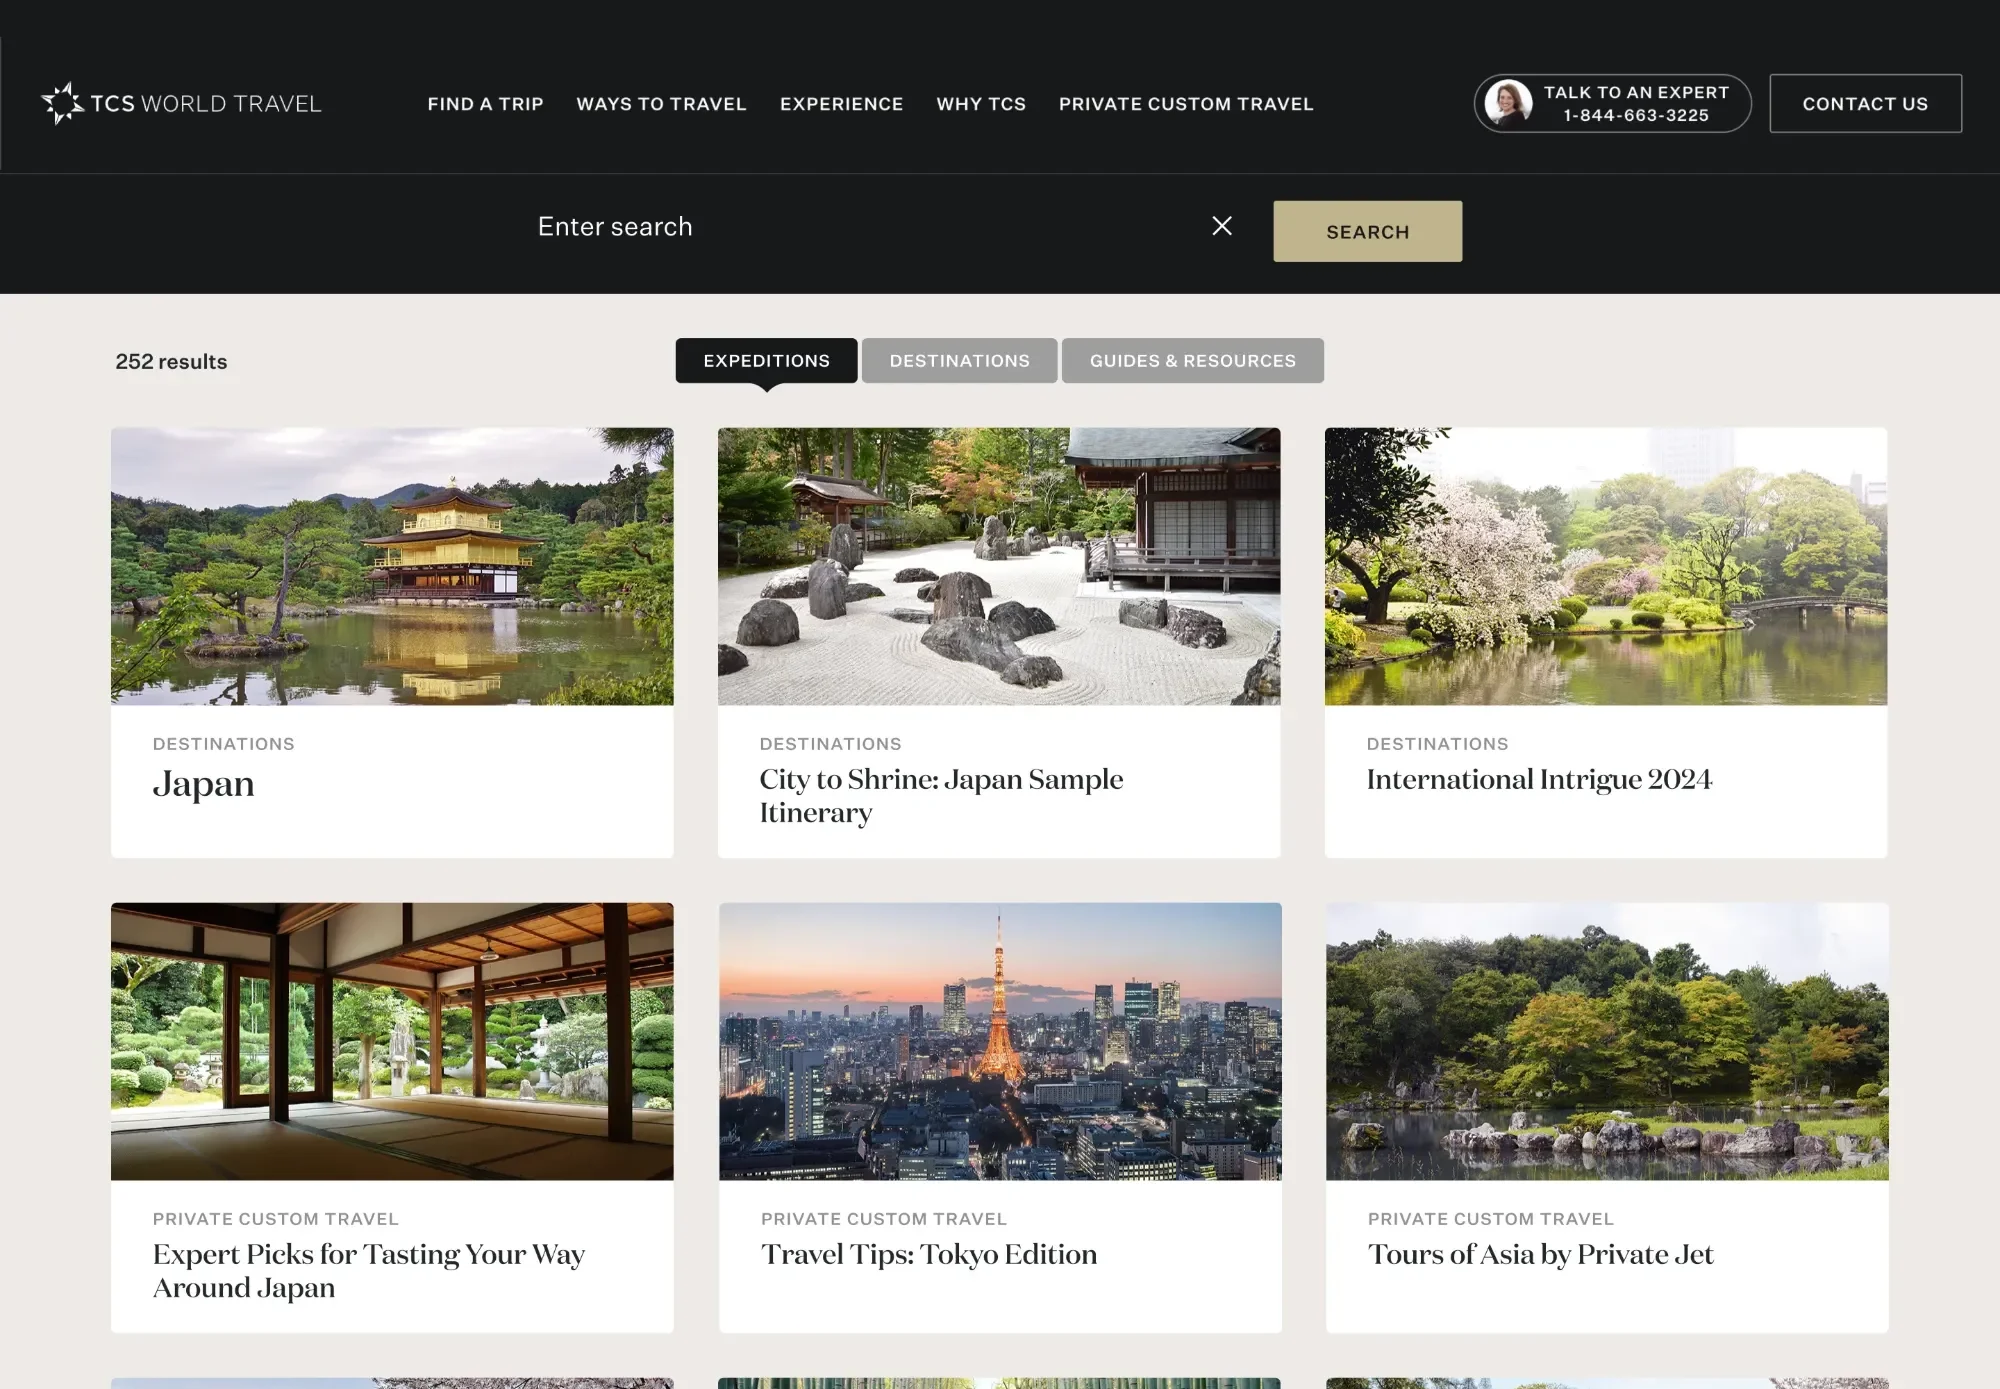
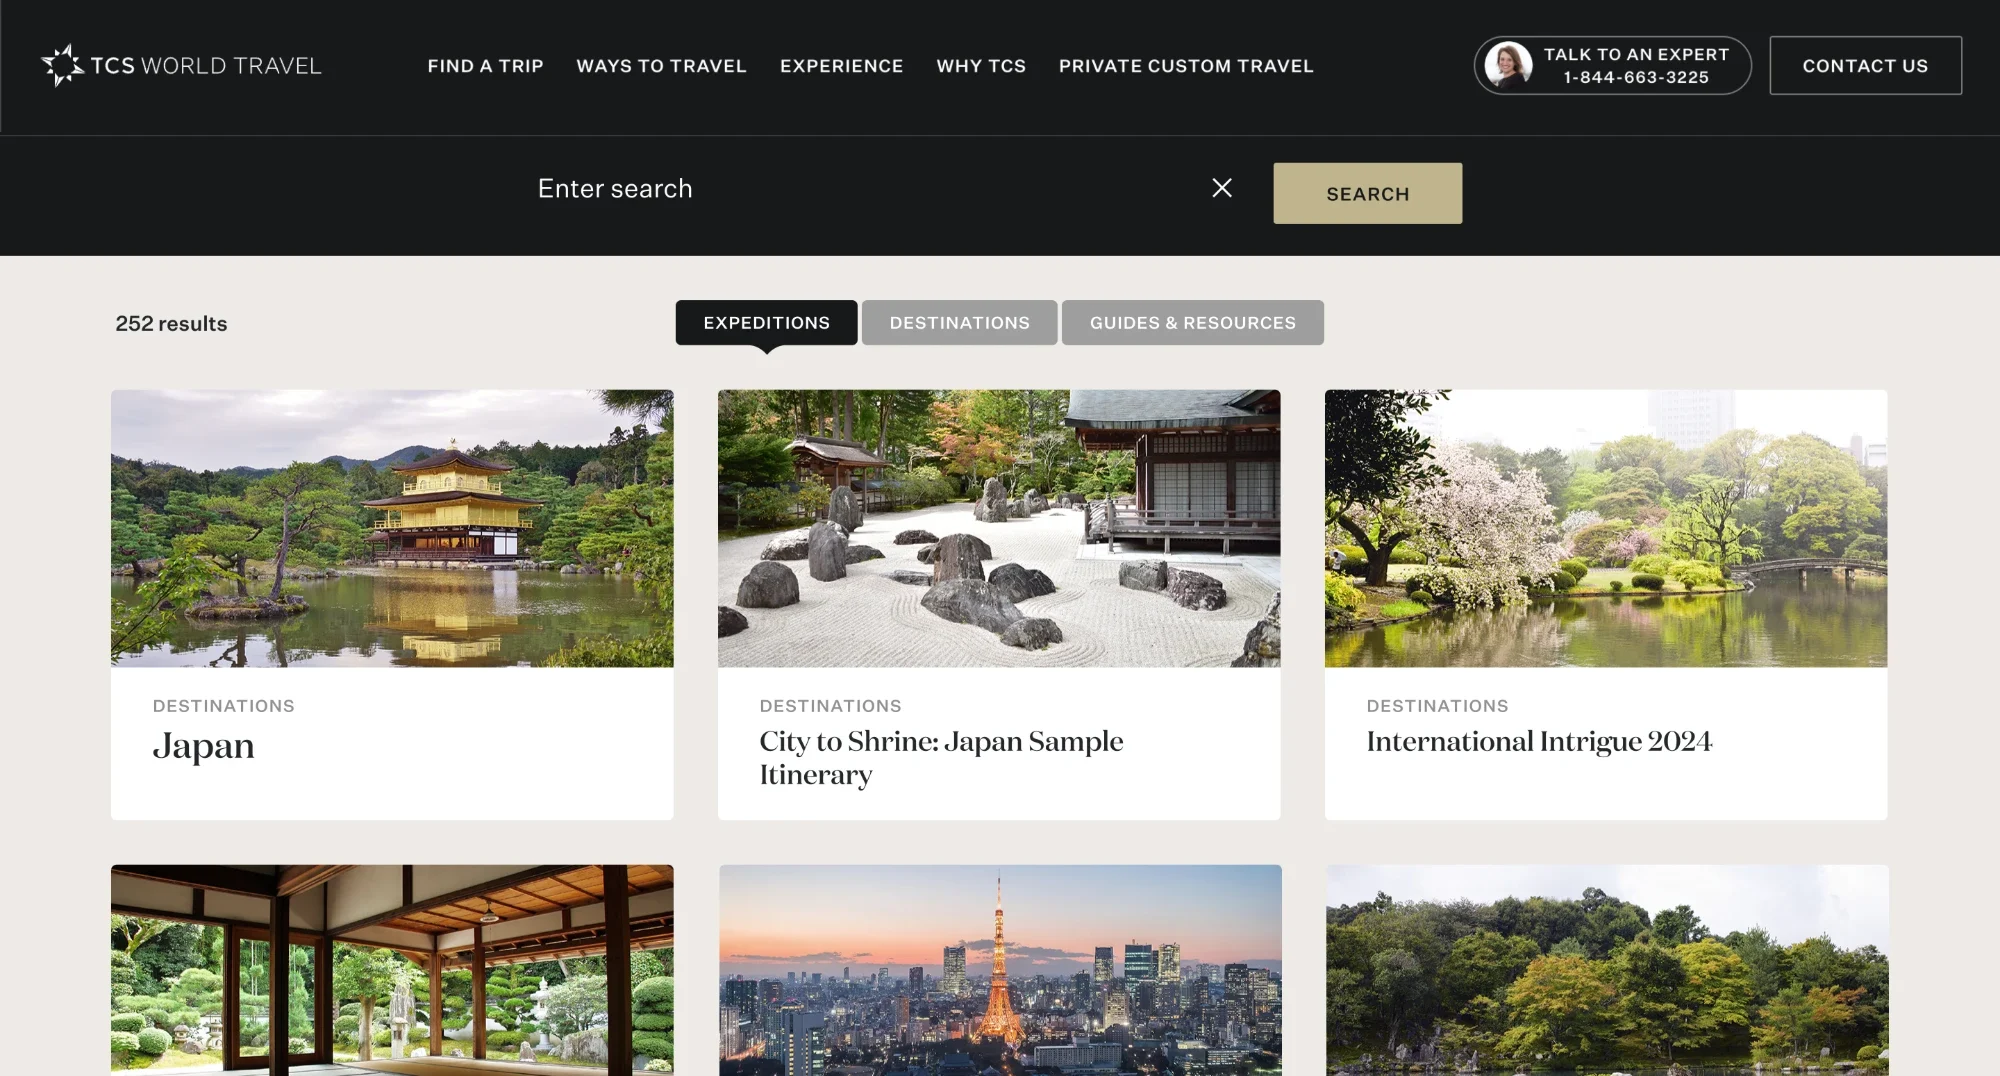
TCS search: June–July timeline, interview method line, Overview slider compares old page with live V1

diff --git a/src/app/works/tcs-search/page.tsx b/src/app/works/tcs-search/page.tsx
@@ -77,24 +77,23 @@ function Overview() {
           role="End-to-end Design & Developer Handoff"
           // TODO: add Travis's role once known
           team="Sharayu Jadhav (Product Owner), Travis Snelling, Sandy Tang (Content), TCS developers (Engineering)"
-          timeline={<>February – July 2026<br />Briefed in February 2026 · Designed in May 2026 · V1 launched in July 2026</>}
+          timeline={<>June – July 2026<br />Briefed in June 2026 · V1 built and launched in July 2026</>}
         />
       </Copy>
       <Visual>
-        {/* Both frames are 2000 × 1389. The old page's header is 34px shorter, so its frame is
-            pushed down by that much (padded with the header's own dark) to put the search bar,
-            tabs and first row of results at the same height in both. The handle rests mid-way;
-            the first-view sweep pulls it left over the new filter panel and back */}
+        {/* Both frames are 2000 × 1076: the old search page cropped to the live V1 screenshot's
+            height, 4px off its top so the two search bars sit at the same height. The handle
+            rests mid-way; the first-view sweep pulls it left over V1's filter row and back */}
         <BeforeAfterSlider
           width={2000}
-          height={1389}
+          height={1076}
           start={50}
           sweepTo={14}
           before={{ src: "/images/tcs-search/compare-before.webp", alt: "the old search page: a result count and a grid of mixed cards, with no filters" }}
-          after={{ src: "/images/tcs-search/compare-after.webp", alt: "the new search page: a filter panel, a result count with removable filter chips, sort, and trip cards showing each route" }}
+          after={{ src: "/images/tcs-search/compare-after.webp", alt: "the live V1 search page: tabs, a row of five filters, a result count, and trip cards showing each route" }}
           labels={{
             before: { title: "The old search page", note: "Every result in one grid, with no filters" },
-            after: { title: "The new search page", note: "Filters, a result count and each trip's route" },
+            after: { title: "The live V1 search page", note: "Five filters, a result count and each trip's route" },
           }}
         />
       </Visual>
@@ -195,8 +194,9 @@ function Context() {
         <Copy>
           <h3>What we heard from travellers</h3>
           <p>
-            <Highlight><span className="text-heading">7 frequent TCS travellers interviewed.</span></Highlight> Two
-            recurring observations stood out:
+            <Highlight><span className="text-heading">7 frequent TCS travellers interviewed.</span></Highlight> All
+            were existing TCS customers who volunteered, and I asked each of them a
+            few questions. Two recurring observations stood out:
           </p>
           <ChatQuotes label="What two frequent TCS travellers said" items={TRAVELLER_QUOTES} />
           <p>
@@ -555,7 +555,7 @@ const WORKED = [
   },
   {
     lead: "Ship, learn, and iterate.",
-    text: <><Highlight>V1 went live two months after the designs.</Highlight> Getting the experience into production gave us an opportunity to see how it worked in practice and identify what needed to improve in V2.</>,
+    text: <><Highlight>V1 went live a month after the brief.</Highlight> Getting the experience into production gave us an opportunity to see how it worked in practice and identify what needed to improve in V2.</>,
   },
   {
     lead: "Test with people who know the product.",
